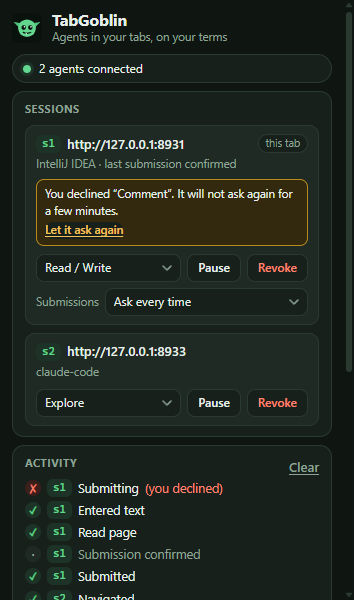
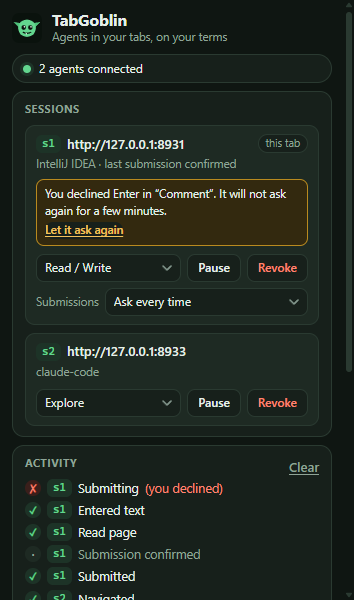
Say what kind of request was declined
The popup's box about a no named the control only: "You declined
Comment". A no is to a kind of request on a control of that name, Enter
in it or a click on it, and the other kind is still asked about. The
list of what passes says so since the last change; this box now does
too, in the same words: "You declined Enter in ...", "You declined
clicking ...". Both lists name a request with one function.

A refusal remembers how the submission would have been made. One kept
from before this change has no kind and is listed by its name alone.

Tests: the rule, the worker, and the box read end to end for a declined
click and a declined Enter. The picture of the box is regenerated.

Claude-Session: https://claude.ai/code/session_01Jo6BBeS5qe77AnBj7zFUgi

Changed region(s): [[0.1554, 0.3, 0.839, 0.36]]

diff --git a/chrome-extension/test/policy.test.ts b/chrome-extension/test/policy.test.ts
@@ -282,35 +282,41 @@ test('search wording is recognised, so that Enter in a search box is not held up
 test('a no stands for a while: the same request is not put to the user again', () => {
   const t0 = 1_000_000;
   assert.equal(code(() => checkAsk(undefined, 'click:Post', false, t0)), 'ok', 'nothing is remembered yet');
-  const declined = noteAnswer(undefined, 'click:Post', 'Post', 'deny', t0);
+  const declined = noteAnswer(undefined, 'click:Post', 'click', 'Post', 'deny', t0);
   assert.equal(code(() => checkAsk(declined, 'click:Post', false, t0 + 1000)), 'SUBMIT_DENIED');
   // Another control, or the same name used another way, is another request.
   assert.equal(code(() => checkAsk(declined, 'click:Save', false, t0 + 1000)), 'ok');
   assert.equal(code(() => checkAsk(declined, 'enter:Post', false, t0 + 1000)), 'ok');
   // It ends by itself.
   assert.equal(code(() => checkAsk(declined, 'click:Post', false, t0 + NO_STANDS_MS)), 'ok');
-  assert.deepEqual(standingRefusals(declined, t0 + 1000), { labels: ['Post'], all: false });
-  assert.deepEqual(standingRefusals(declined, t0 + NO_STANDS_MS), { labels: [], all: false });
+  assert.deepEqual(standingRefusals(declined, t0 + 1000), { requests: [{ how: 'click', label: 'Post' }], all: false });
+  assert.deepEqual(standingRefusals(declined, t0 + NO_STANDS_MS), { requests: [], all: false });
+  // The user is told what kind of request they declined: Enter in a box of that name is another one.
+  const both = noteAnswer(declined, 'enter:Post', 'enter', 'Post', 'deny', t0 + 500);
+  assert.deepEqual(standingRefusals(both, t0 + 1000).requests, [{ how: 'click', label: 'Post' }, { how: 'enter', label: 'Post' }]);
+  // A no that was kept from before the kind was noted is listed by its name alone.
+  const kept = { declined: [{ key: 'click:Old', label: 'Old', at: t0 }], refusedInARow: 1, refusedAt: t0 };
+  assert.deepEqual(standingRefusals(kept, t0 + 1000).requests, [{ how: null, label: 'Old' }]);
   // An allow of the same request lifts it. That happens after the user took the no back.
-  const allowed = noteAnswer(declined, 'click:Post', 'Post', 'allow', t0 + 2000);
+  const allowed = noteAnswer(declined, 'click:Post', 'click', 'Post', 'allow', t0 + 2000);
   assert.equal(code(() => checkAsk(allowed, 'click:Post', false, t0 + 3000)), 'ok');
 });
 
 test('a session whose requests are refused again and again is not heard for a while', () => {
   const t0 = 1_000_000;
-  let memory = noteAnswer(undefined, 'click:A', 'A', 'deny', t0);
-  memory = noteAnswer(memory, 'click:B', 'B', 'timeout', t0 + 1000);
+  let memory = noteAnswer(undefined, 'click:A', 'click', 'A', 'deny', t0);
+  memory = noteAnswer(memory, 'click:B', 'click', 'B', 'timeout', t0 + 1000);
   assert.equal(code(() => checkAsk(memory, 'click:C', false, t0 + 2000)), 'ok', `not yet after ${UNWELCOME_AFTER - 1}`);
-  memory = noteAnswer(memory, 'click:C', 'C', 'deny', t0 + 2000);
+  memory = noteAnswer(memory, 'click:C', 'click', 'C', 'deny', t0 + 2000);
   assert.equal(code(() => checkAsk(memory, 'click:D', false, t0 + 3000)), 'SUBMIT_DENIED', 'a request it never made before');
   assert.equal(standingRefusals(memory, t0 + 3000).all, true);
-  assert.deepEqual(standingRefusals(memory, t0 + 3000).labels, ['A', 'C'], 'what was left unanswered was not declined');
+  assert.deepEqual(standingRefusals(memory, t0 + 3000).requests.map((r) => r.label), ['A', 'C'], 'what was left unanswered was not declined');
   assert.equal(code(() => checkAsk(memory, 'click:D', false, t0 + 2000 + NO_STANDS_MS)), 'ok', 'it ends by itself');
   // An allow in between ends the run.
-  let mixed = noteAnswer(undefined, 'click:A', 'A', 'deny', t0);
-  mixed = noteAnswer(mixed, 'click:B', 'B', 'deny', t0);
-  mixed = noteAnswer(mixed, 'click:C', 'C', 'allow', t0);
-  mixed = noteAnswer(mixed, 'click:D', 'D', 'deny', t0);
+  let mixed = noteAnswer(undefined, 'click:A', 'click', 'A', 'deny', t0);
+  mixed = noteAnswer(mixed, 'click:B', 'click', 'B', 'deny', t0);
+  mixed = noteAnswer(mixed, 'click:C', 'click', 'C', 'allow', t0);
+  mixed = noteAnswer(mixed, 'click:D', 'click', 'D', 'deny', t0);
   assert.equal(code(() => checkAsk(mixed, 'click:E', false, t0 + 1000)), 'ok');
 });
 

diff --git a/chrome-extension/src/popup.ts b/chrome-extension/src/popup.ts
@@ -39,7 +39,7 @@ interface SessionView {
   ownerConnected: boolean;
   lastSubmission: string | null;
   /** Requests of this session that are not put to the user for now: those they declined, or all. */
-  notAsked: { labels: string[]; all: boolean };
+  notAsked: { requests: { how: 'click' | 'form' | 'enter' | null; label: string }[]; all: boolean };
   /** When the user is asked in this session, and what passes without a question right now. */
   ask: AskMode;
   passes: { how: 'click' | 'form' | 'enter'; label: string; minutes: number }[];
@@ -106,6 +106,17 @@ function agentLabel(client: { name: string | null; id: string | null }, connecte
   const name = agentName(client);
   const shared = connected.some((other) => other.id !== client.id && agentName(other) === name);
   return shared && client.id && client.name ? `${name} (${client.id})` : name;
+}
+
+/**
+ * A request as the user was asked about it: the kind, Enter in a text box or a click, and the name
+ * of the control. The name comes from the page and is shown as a quotation; what has none is
+ * described in our own words. Without a kind, only the control is named.
+ */
+function requestName(how: 'click' | 'form' | 'enter' | null, label: string): string {
+  const enter = how === 'form' || how === 'enter';
+  const name = label ? `“${label}”` : enter ? 'a text box without a name' : 'a control without a name';
+  return how === null ? name : `${enter ? 'Enter in' : 'clicking'} ${name}`;
 }
 
 function el<K extends keyof HTMLElementTagNameMap>(tag: K, className = '', text = ''): HTMLElementTagNameMap[K] {
@@ -222,8 +233,9 @@ function renderSessions(s: State): void {
 
       row.append(line, el('div', 'meta', parts.join(' · ')));
       // A no stands for a while. The user sees that it does, and can take it back.
-      if (session.notAsked.all || session.notAsked.labels.length) {
-        const names = session.notAsked.labels.map((label) => (label ? `“${label}”` : 'a control without a name'));
+      if (session.notAsked.all || session.notAsked.requests.length) {
+        // A no is to a kind of request on a control of that name: Enter in it, or a click on it.
+        const names = session.notAsked.requests.map((request) => requestName(request.how, request.label));
         const held = el('div', 'held');
         held.append(el('span', '', session.notAsked.all
           ? 'Its requests were declined or not answered. It will not ask for a few minutes.'
@@ -254,7 +266,7 @@ function renderSessions(s: State): void {
         const passing = el('div', 'passing');
         // An Allow is for a kind of request on a control of that name: Enter in it, or a click on it.
         // The time it has left stays in one piece when the line breaks.
-        const names = session.passes.map((pass) => `${pass.how === 'click' ? 'clicking' : 'Enter in'} “${pass.label}” (${pass.minutes}\u00a0min)`);
+        const names = session.passes.map((pass) => `${requestName(pass.how, pass.label)} (${pass.minutes}\u00a0min)`);
         passing.append(el('span', '', `Passes without asking: ${names.join(', ')}.`));
         // One button ends all of them, and says so.
         const forget = el('button', 'link forget', session.passes.length > 1 ? 'Ask about them again' : 'Ask about it again');

diff --git a/chrome-extension/src/policy.ts b/chrome-extension/src/policy.ts
@@ -374,18 +374,26 @@ export const UNWELCOME_AFTER = 3;
 
 /** What is remembered of the user's answers in one session, to decide whether they are asked again. */
 export interface AskMemory {
-  /** What the user declined, and when. The key is how the submission would be made and what the control is called. */
-  declined: { key: string; label: string; at: number }[];
+  /**
+   * What the user declined, and when. The key is how the submission would be made and what the
+   * control is called. An entry kept from before the kind was noted has none.
+   */
+  declined: { key: string; how?: SubmitHow; label: string; at: number }[];
   /** Requests in a row that were declined or left unanswered, and when the last of them was. */
   refusedInARow: number;
   refusedAt: number;
 }
 
-/** The requests of a session that would not be put to the user right now. */
-export function standingRefusals(memory: AskMemory | undefined, now: number): { labels: string[]; all: boolean } {
-  if (!memory) return { labels: [], all: false };
+/**
+ * The requests of a session that would not be put to the user right now: those they declined, by
+ * kind and by the name of the control, or all of them.
+ */
+export function standingRefusals(
+  memory: AskMemory | undefined, now: number,
+): { requests: { how: SubmitHow | null; label: string }[]; all: boolean } {
+  if (!memory) return { requests: [], all: false };
   return {
-    labels: memory.declined.filter((d) => now - d.at < NO_STANDS_MS).map((d) => d.label),
+    requests: memory.declined.filter((d) => now - d.at < NO_STANDS_MS).map((d) => ({ how: d.how ?? null, label: d.label })),
     all: memory.refusedInARow >= UNWELCOME_AFTER && now - memory.refusedAt < NO_STANDS_MS,
   };
 }
@@ -416,11 +424,11 @@ export function checkAsk(memory: AskMemory | undefined, key: string, anotherWait
 
 /** Takes note of how a request ended. An allow ends a run of refusals, and lifts an earlier no to the same request. */
 export function noteAnswer(
-  memory: AskMemory | undefined, key: string, label: string, answer: 'allow' | 'deny' | 'timeout', now: number,
+  memory: AskMemory | undefined, key: string, how: SubmitHow, label: string, answer: 'allow' | 'deny' | 'timeout', now: number,
 ): AskMemory {
   const declined = (memory?.declined ?? []).filter((d) => now - d.at < NO_STANDS_MS && d.key !== key);
   if (answer === 'allow') return { declined, refusedInARow: 0, refusedAt: 0 };
-  if (answer === 'deny') declined.push({ key, label, at: now });
+  if (answer === 'deny') declined.push({ key, how, label, at: now });
   const running = memory && now - memory.refusedAt < NO_STANDS_MS ? memory.refusedInARow : 0;
   return { declined, refusedInARow: running + 1, refusedAt: now };
 }

diff --git a/chrome-extension/test/background.test.ts b/chrome-extension/test/background.test.ts
@@ -491,7 +491,7 @@ test('a no stands: what the user declined is not asked again until they take it 
   assert.equal(code(second), 'SUBMIT_DENIED');
   assert.match(second.error.message, /not asked again so soon/);
   assert.equal((await state()).pendingConfirm, null, 'no prompt was raised');
-  assert.deepEqual(await notAsked(), { labels: ['Reply'], all: false });
+  assert.deepEqual(await notAsked(), { requests: [{ how: 'enter', label: 'Reply' }], all: false });
 
   // Another request is asked about. While it waits, a request of another session is refused at once.
   await popup({ type: 'authorize', tabId: 2, mode: 'write', clientId: 'c-two' });
@@ -507,7 +507,7 @@ test('a no stands: what the user declined is not asked again until they take it 
 
   // The user takes the no back: asked again, and it can be allowed.
   await popup({ type: 'askAgain', session: 's1' });
-  assert.deepEqual(await notAsked(), { labels: [], all: false });
+  assert.deepEqual(await notAsked(), { requests: [], all: false });
   const third = ask(one, 'Reply');
   await answer(true);
   assert.equal(code(await third), 'ok');

diff --git a/chrome-extension/src/background.ts b/chrome-extension/src/background.ts
@@ -688,7 +688,7 @@ async function confirmWithUser(
   const lasting = remembersAllow(mode, word, label, origin);
   const answer = await askUser(op, { label, how, word, origin, preview, lasts: lasting ? ALLOW_LASTS_MS / 60_000 : null });
   if (answer !== 'cancelled') {
-    session.asks = noteAnswer(session.asks, key, label, answer, Date.now());
+    session.asks = noteAnswer(session.asks, key, how, label, answer, Date.now());
     save();
   }
   if (answer === 'deny') {

diff --git a/docs/agents/validation-log.md b/docs/agents/validation-log.md
@@ -3,6 +3,24 @@
 Newest first. One entry per session that verified something. Not part of the startup read.
 When this passes about ten entries, fold the oldest into one summary line.
 
+## 2026-11-21, on `pairing-race`: the declined box
+
+The popup names the kind of request the user declined ("You declined Enter in “Comment”"), as
+it does for what passes. All on the final build of the branch.
+
+| Command | Result |
+|---|---|
+| `cd chrome-extension && npm run check` | type-check clean, 131 tests, build |
+| the same in a Linux container (two cores) | 131 tests |
+| `cd e2e && npm test` | 91 passed, 0 failed. The box is read for a declined click and, new in an existing step, for a declined Enter. |
+| `cd e2e/editors && npm test` (tab in front) | 222 of 225, no `SILENT`, exit 0 |
+| `cd e2e/editors && BACKGROUND=1 npm test` | 220 of 225, no `SILENT`, exit 0 |
+| `node screenshots.mjs prompts` | 28 pictures of 14 views. Looked at: the declined box in both colour schemes. |
+| `HEADED=1 node screenshots.mjs` | `popup-declined.png` looked at and kept. The three pictures that show the agents' ports came out different again and were put back unopened. |
+| `node docs/agents/check-links.mjs` | all resolve |
+
+Not run: the server's suites; nothing in the server changed since the entry below.
+
 ## 2026-11-21, on `pairing-race`: the CI failure
 
 The first CI result a session has seen: a screenshot from the owner of the "Chrome extension"
@@ -209,29 +227,11 @@ The look of the confirmation prompt, checked by eye. No change to what is asked 
 Not run again: the Java build and the editor lab. Neither is touched by this commit, which changes
 the popup, the wording of what has no name, and how a long name is shortened.
 
-## 2026-11-21, on `typed-lines`, second commit
-
-Enter in a text box is a submission; Enter or Space on a control follows the rules of a click.
-
-Passed, all on the final build:
-
-| Command | Result |
-|---|---|
-| `mvn -B -f java-server/pom.xml package` | 52 tests, jar built |
-| `cd chrome-extension && npm run check` | type-check clean, 119 tests, build |
-| `cd e2e && npm test` | 86 passed, 0 failed. Three new steps drive the real popup prompt. |
-| `cd e2e/editors && npm test` (tab in front) | 222 of 225, no `SILENT`, exit 0 |
-| `cd e2e/editors && BACKGROUND=1 npm test` | 220 of 225, no `SILENT`, exit 0 |
-| `node docs/agents/check-links.mjs` | all resolve |
-
-Not run: the new tests against the source before the change. That Enter and Space on a button
-used to pass without the rules of a click is read from that source, not measured.
-
-Failed: none. Not run: `node live.mjs` (both), `node agent.mjs`, `node screenshots.mjs`. CI on
-GitHub has still not been seen.
-
 ## Earlier, in one line each
 
+- 2026-11-21, on `typed-lines`, second commit (Enter in a text box is a submission): server 52
+  tests, extension 119, end to end 86 of 86, editor lab 222 of 225 in front and 220 of 225 in the
+  background, no `SILENT`. CI on GitHub not seen.
 - 2026-11-21, on `typed-lines`, first commit (a fill never presses Enter): server 52 tests,
   extension 112, end to end 83 of 83, editor lab 222 of 225 in front and 220 of 225 in the
   background, no `SILENT`. CI on GitHub not seen.

diff --git a/docs/agents/state.md b/docs/agents/state.md
@@ -6,9 +6,10 @@ Last updated: 2026-11-21. Claims here go stale; check the date, then `git status
 
 - `main` = `origin/main` = `87e5a79`: the merge of `automatic-mode` (WP-7 and WP-8), made by the
   owner on 2026-11-21. Earlier branches are merged.
-- Branch `pairing-race`: local, not pushed, not merged. One commit on top of `87e5a79`: a message
-  that arrives at the moment of pairing is no longer taken for a failed pairing. It is the cause
-  of the CI failure described below.
+- Branch `pairing-race`: local, not pushed, not merged. Two commits on top of `87e5a79`. The
+  first: a message that arrives at the moment of pairing is no longer taken for a failed
+  pairing, the cause of the CI failure described below. The second: the popup says what kind of
+  request was declined.
 
 ## Active work
 
